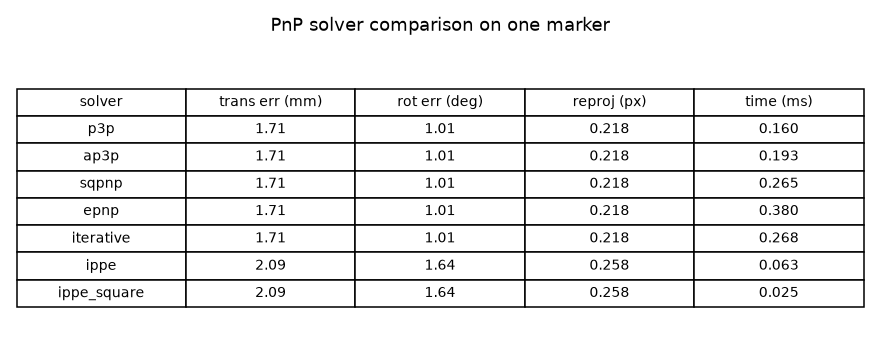
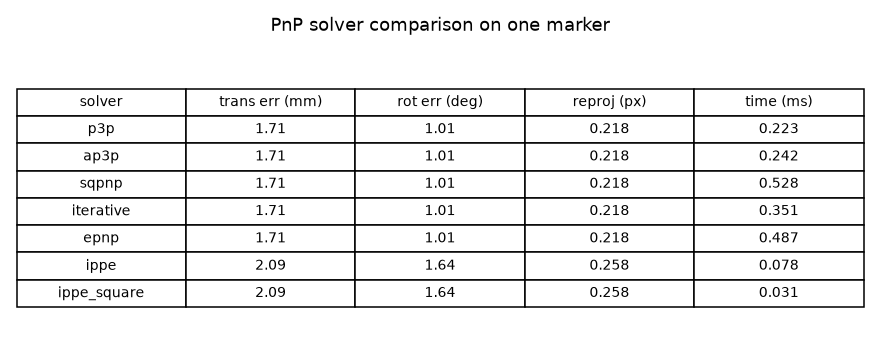
Document stereo calibration with rectified-pair figure

diff --git a/scripts/make_figures.py b/scripts/make_figures.py
@@ -2,6 +2,7 @@ from __future__ import annotations
 
 from pathlib import Path
 
+import cv2  # noqa: E402
 import matplotlib
 
 matplotlib.use("Agg")
@@ -18,6 +19,7 @@ from campose.marker_board import grid_board  # noqa: E402
 from campose.pose_estimator import PoseEstimator, _marker_object_points  # noqa: E402
 from campose.rotations import geodesic_angle, rodrigues_to_matrix  # noqa: E402
 from campose.smoothing import PoseSmoother  # noqa: E402
+from campose.stereo import StereoCalibrator, rectify_pair  # noqa: E402
 from campose.synthetic import VirtualCamera, render_aruco_marker, render_marker_board  # noqa: E402
 
 ROOT = Path(__file__).resolve().parent.parent
@@ -233,6 +235,44 @@ def _charuco_occlusion_figure(intrinsics) -> None:
     plt.close(fig)
 
 
+def _stereo_figure() -> None:
+    from campose.rotations import matrix_to_rodrigues, rodrigues_to_matrix
+
+    R_true = rodrigues_to_matrix(np.array([0.0, -0.03, 0.0]))
+    T_true = np.array([-0.10, 0.0, 0.0])
+    left_cam = VirtualCamera(CameraIntrinsics.from_matrix(np.array([[900.0, 0, 320], [0, 900.0, 240], [0, 0, 1]]), np.zeros(5)), SIZE, SPEC)
+    right_cam = VirtualCamera(CameraIntrinsics.from_matrix(np.array([[898.0, 0, 321], [0, 899.0, 240], [0, 0, 1]]), np.zeros(5)), SIZE, SPEC)
+    cx = -(SPEC.columns - 1) * SPEC.square_size / 2
+    cy = -(SPEC.rows - 1) * SPEC.square_size / 2
+    rng = np.random.default_rng(2)
+    calibrator = StereoCalibrator(SPEC)
+    tries = 0
+    while calibrator.pair_count < 14 and tries < 3000:
+        tries += 1
+        rvec_l = rng.uniform(-0.35, 0.35, 3)
+        tvec_l = np.array([cx + 0.05 + rng.uniform(-0.04, 0.04), cy + rng.uniform(-0.04, 0.04), rng.uniform(0.6, 0.95)])
+        rvec_r = matrix_to_rodrigues(R_true @ rodrigues_to_matrix(rvec_l))
+        lb = left_cam.render(rvec_l, tvec_l)
+        rb = right_cam.render(rvec_r, R_true @ tvec_l + T_true)
+        if lb.visible and rb.visible:
+            calibrator.add_pair(lb.image, rb.image)
+    result = calibrator.calibrate()
+    left_img = left_cam.render(np.array([0.1, -0.1, 0.02]), np.array([cx + 0.05, cy, 0.7])).image
+    right_img = right_cam.render(matrix_to_rodrigues(R_true @ rodrigues_to_matrix(np.array([0.1, -0.1, 0.02]))), R_true @ np.array([cx + 0.05, cy, 0.7]) + T_true).image
+    left_rect, right_rect, _ = rectify_pair(left_img, right_img, result)
+    pair = np.hstack([cv2.cvtColor(left_rect, cv2.COLOR_BGR2RGB), cv2.cvtColor(right_rect, cv2.COLOR_BGR2RGB)])
+    fig, ax = plt.subplots(figsize=(11, 4.2))
+    ax.imshow(pair)
+    for y in range(40, SIZE[1], 45):
+        ax.axhline(y, color="#2e8b57", linewidth=0.7, alpha=0.8)
+    ax.axvline(SIZE[0], color="white", linewidth=2)
+    ax.set_title(f"Rectified stereo pair (baseline {result.baseline * 100:.1f} cm) — corners share scanlines")
+    ax.axis("off")
+    fig.tight_layout()
+    fig.savefig(FIGURES / "stereo_rectification.png", dpi=110)
+    plt.close(fig)
+
+
 def main() -> None:
     FIGURES.mkdir(exist_ok=True)
     calibrator = _build_calibrator()
@@ -247,6 +287,7 @@ def main() -> None:
     _smoothing_figure()
     _board_occlusion_figure(intrinsics)
     _charuco_occlusion_figure(intrinsics)
+    _stereo_figure()
     print(f"\nWrote figures to {FIGURES}")
 
 

diff --git a/README.md b/README.md
@@ -250,6 +250,35 @@ pose = estimate_charuco_pose(detect_charuco(frame, spec), spec, result.intrinsic
 
 ---
 
+## Stereo calibration and depth
+
+Two cameras rigidly mounted see the same scene from slightly different
+viewpoints; calibrating them jointly recovers the rotation and translation
+between them (plus the essential and fundamental matrices), which is what turns
+a stereo rig into a depth sensor. `StereoCalibrator` recovers the baseline to
+sub-millimetre accuracy on synthetic pairs, and after rectification the two
+views share scanlines so a matched point's horizontal shift gives its depth.
+
+<p align="center"><img src="figures/stereo_rectification.png" width="90%" alt="Rectified stereo pair"/></p>
+
+```python
+from campose.stereo import StereoCalibrator, rectify_pair, disparity_map
+calibrator = StereoCalibrator(CheckerboardSpec(9, 6, 0.025))
+for left, right in synchronized_pairs:
+    calibrator.add_pair(left, right)
+result = calibrator.calibrate()
+print(result.summary())                       # baseline, inter-camera angle, RMS
+
+left_rect, right_rect, Q = rectify_pair(left, right, result)
+disparity = disparity_map(left_rect, right_rect)   # per-pixel; depth via Q
+```
+
+On the synthetic rig above, rectification aligns matched corners to within
+~0.02 px vertically and depth from corner disparity lands within a millimetre of
+truth at 0.7 m.
+
+---
+
 ## Package layout
 
 ```
@@ -265,6 +294,7 @@ campose/
 ├── marker_board.py    # multi-marker board layout + grid constructor
 ├── visualization.py   # 3D poses, distortion maps, error charts, axis overlay
 ├── charuco.py         # ChArUco board calibration + occlusion-tolerant pose
+├── stereo.py          # stereo calibration, rectification, and depth
 ├── evaluation.py      # the four experiment runners
 ├── quality.py         # pre-calibration capture-quality assessment
 ├── smoothing.py       # constant-velocity Kalman + SLERP pose smoothing
@@ -279,14 +309,14 @@ campose/
 
 - **Planar targets only.** ArUco and flat feature targets are supported; full 3D
   object tracking from a CAD model is not.
-- **Single camera.** No stereo calibration or depth from disparity.
 - **Sample data is synthetic.** Real-camera calibration is fully supported and
   documented, but the bundled images come from the virtual camera so ground
   truth is exact.
 
 ## Extensions (natural next steps)
 
-Stereo calibration (the remaining path to lift the single-camera limitation).
+Dense stereo depth on textured scenes · rolling-shutter modelling · full 3D
+object tracking from a CAD model.
 
 ---
 
